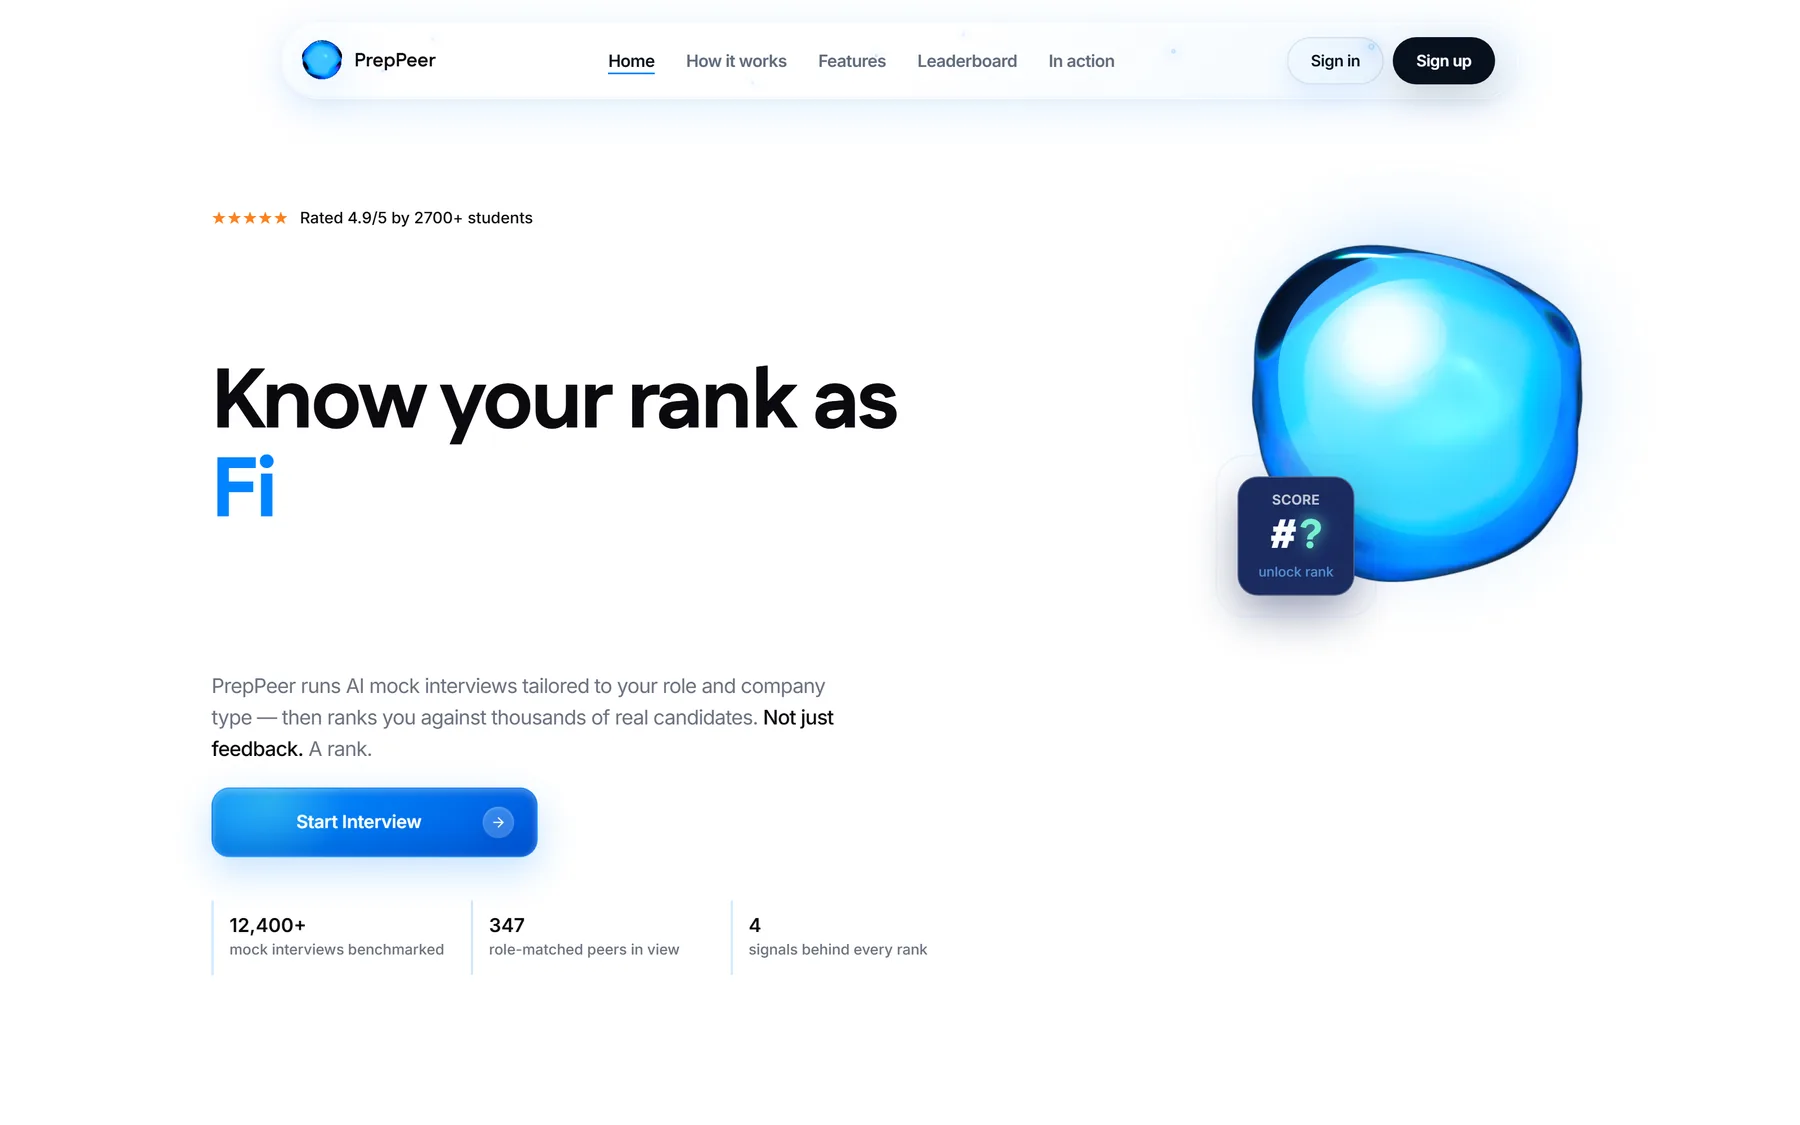
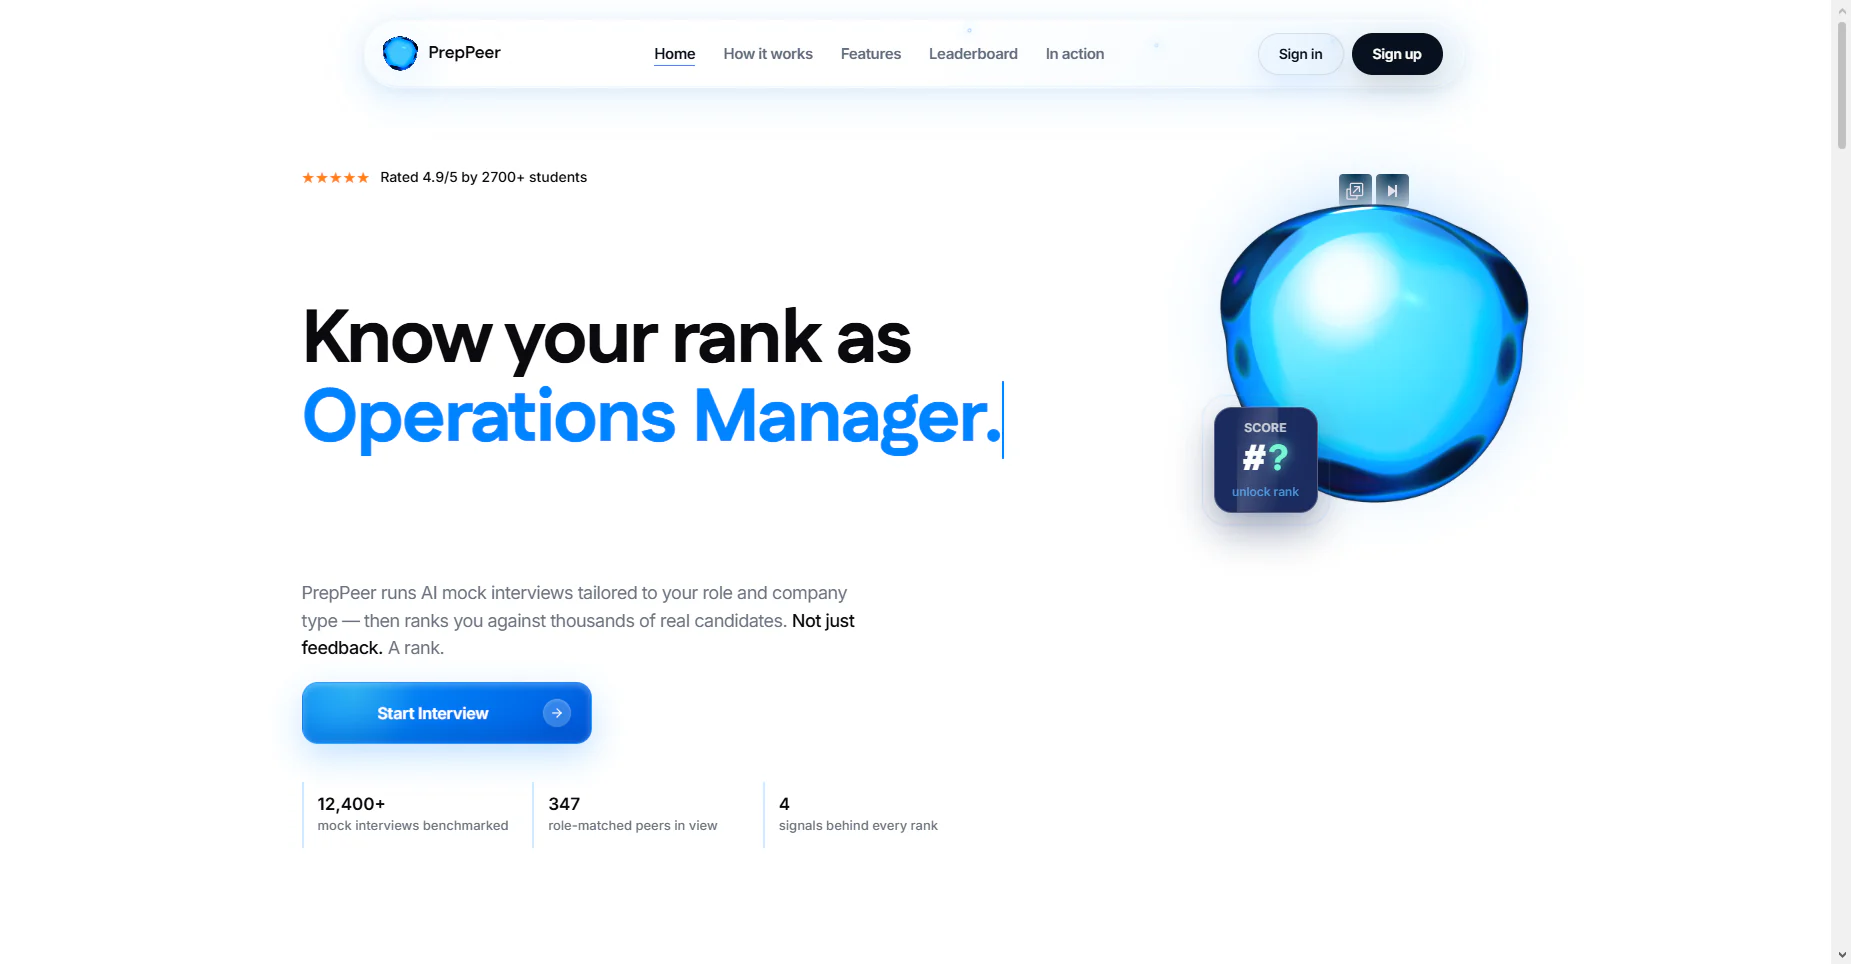
Update PrepPeer hero capture

diff --git a/index.html b/index.html
@@ -179,7 +179,7 @@
             <span class="floating-label label-two">AUTH FLOW</span>
             <picture>
               <source srcset="assets/captures/preppeer-hero.webp" type="image/webp" />
-              <img src="assets/captures/preppeer-hero.png" alt="PrepPeer landing page hero" width="1800" height="1125" loading="lazy" decoding="async" />
+              <img src="assets/captures/preppeer-hero.png" alt="PrepPeer landing page hero" width="1851" height="964" loading="lazy" decoding="async" />
             </picture>
             <picture>
               <source srcset="assets/captures/preppeer-login.webp" type="image/webp" />